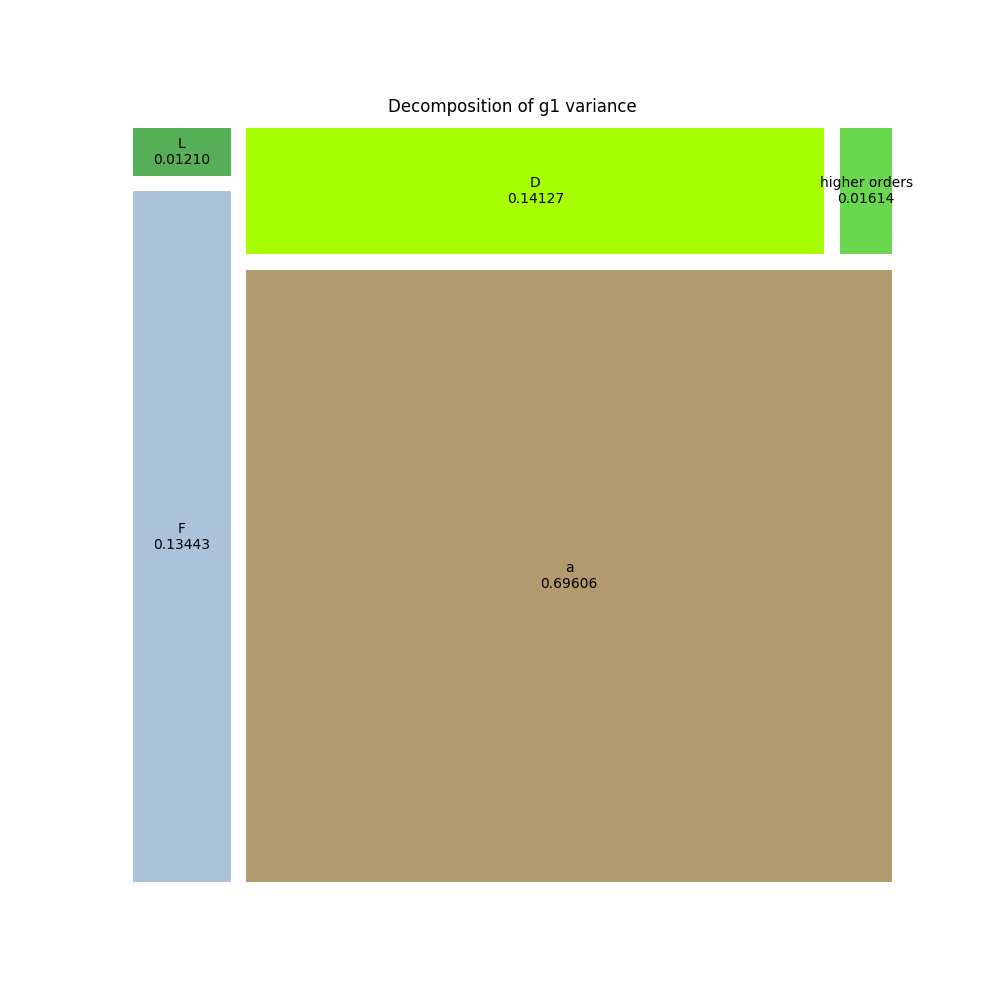
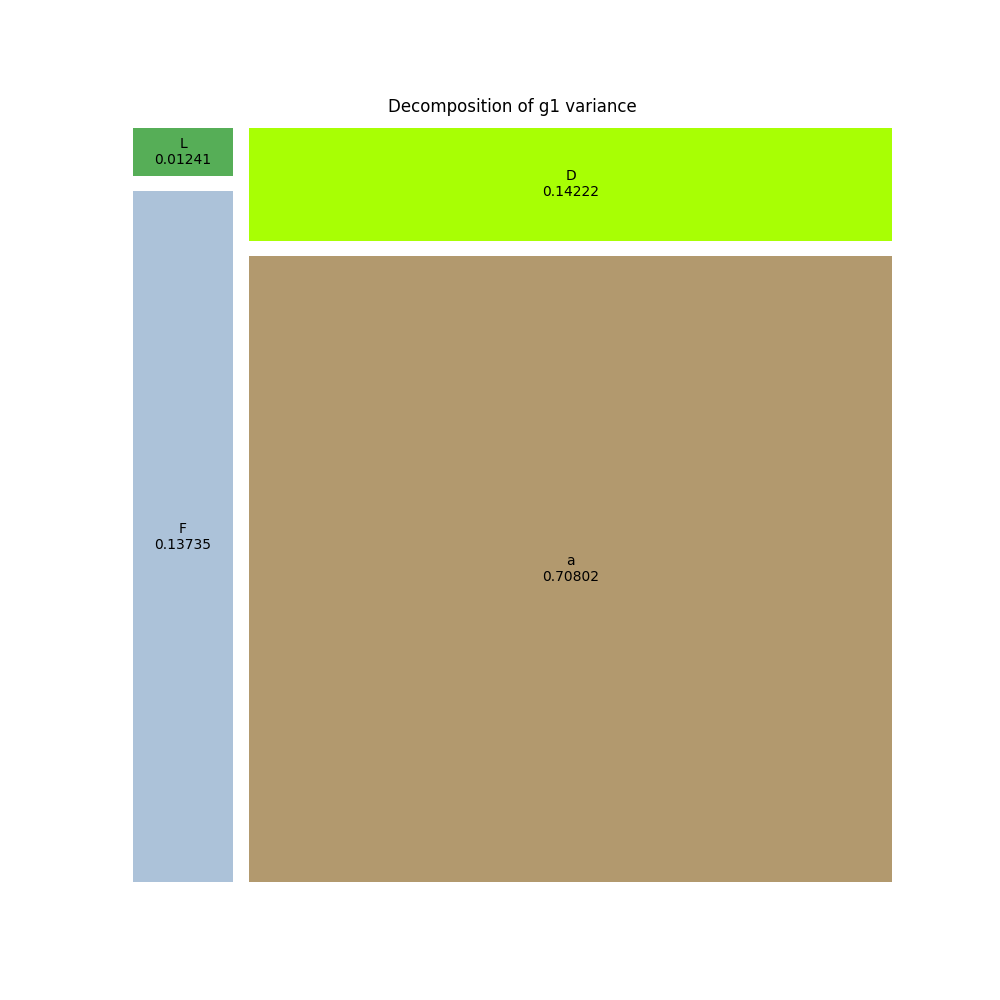
add lgpl license to examples directory

Changed region(s): [[0.155, 0.124, 0.899, 0.279], [0.155, 0.279, 0.248, 0.868], [0.527, 0.558, 0.589, 0.589]]

diff --git a/examples/tube_deflection/tube_deflection_tutorial.py b/examples/tube_deflection/tube_deflection_tutorial.py
@@ -2,6 +2,8 @@ import os
 import chaospy as cp
 import easyvvuq as uq
 from matplotlib import pyplot as plt
+import matplotlib
+matplotlib.use('TkAgg')
 
 from cloudvvuq.easy_executor import EasyExecutor
 
@@ -12,7 +14,7 @@ os.environ['GOOGLE_APPLICATION_CREDENTIALS'] = '../../credentials/credentials.js
 # url = "https://cloudvvuq-ymkbuh6guq-ew.a.run.app"  # Cloud Run - Python
 # url = "https://europe-west1-sano-332607.cloudfunctions.net/TubeDeflection"  # Cloud Functions - Python
 # url = "https://dx6qs64nzckbqqfh73g4m5ssqq0yjmhz.lambda-url.eu-central-1.on.aws/"  # AWS Lambda Image
-url = "https://ueo7uf62rzbu5t2bypcjis7qi40tnqpz.lambda-url.eu-central-1.on.aws/"  # AWS Lambda Layer
+url = "https://jxdvtogestjrjgn5xq2vx762540wncwh.lambda-url.us-east-1.on.aws/"  # AWS Lambda Layer
 
 params = {
     "F": {"type": "float", "default": 1.0},
@@ -29,19 +31,19 @@ vary = {
     "D": cp.Triangle(0.75, 0.8, 0.85),
 }
 
-sampler = uq.sampling.SCSampler(vary=vary, polynomial_order=3)
-
+sampler = uq.sampling.SCSampler(vary=vary, polynomial_order=1)  # fix to 1 for 1:1 results with easyvvuq
+# sampler =uq.sampling.PCESampler(vary=vary, polynomial_order=1)
 executor = EasyExecutor(url)
 
 executor.set_sampler(sampler, params)
 samples = executor.draw_samples()
-outputs = executor.run(samples, max_load=256, cloud_provider="aws")
+outputs = executor.run(samples[:1], max_load=10, cloud_provider="aws")
 
 campaign = executor.create_campaign("tube_deflection", input_columns=['F', 'L', 'a', 'D', 'd', 'E'],
                                     output_columns=['g1', 'g2', 'g3'])
 
 campaign.apply_analysis(
-    uq.analysis.SCAnalysis(
+    uq.analysis.PCEAnalysis(
         sampler=campaign.get_active_sampler(),
         qoi_cols=["g1", 'g2', 'g3']
     )

diff --git a/examples/fusion/fusion_tutorial.py b/examples/fusion/fusion_tutorial.py
@@ -193,6 +193,8 @@ if __name__ == '__main__':
         plt.semilogy(R[i]['results'].describe('rho', 'mean'),
                      np.sqrt(((test_predictions[i] - test_results) ** 2).mean(axis=0)) / test_results.mean(axis=0),
                      label='PCE order %s with %s samples' % (R[i]['order'], R[i]['number_of_samples']))
+    # fixme: convergence surrogate plot is plotted on pce_surrogate plot
+    # plt.figure()
     plt.xlabel('rho [m]')
     plt.ylabel('fractional RMS for predicted Te')
     plt.legend(loc=0)

diff --git a/examples/tube_deflection/Lambda_layer_python_src/beam.py b/examples/tube_deflection/Lambda_layer_python_src/beam.py
@@ -1,5 +1,4 @@
 import sys
-import numpy as np
 import json
 
 if __name__ == '__main__':
@@ -17,7 +16,7 @@ if __name__ == '__main__':
     d = inputs['d']
     E = inputs['E']
     b = L - a
-    I = np.pi * (D ** 4 - d ** 4) / 32.0
+    I = 3.14 * (D ** 4 - d ** 4) / 32.0
     g1 = -F * ((a ** 2 * (L - a) ** 2) / (3.0 * E * L * I))
     g2 = -F * ((b * (L ** 2 - b ** 2)) / (6.0 * E * L * I))
     g3 = F * ((a * (L ** 2 - a ** 2)) / (6.0 * E * L * I))

diff --git a/examples/LICENSE.md b/examples/LICENSE.md
@@ -1,0 +1,165 @@
+                   GNU LESSER GENERAL PUBLIC LICENSE
+                       Version 3, 29 June 2007
+
+ Copyright (C) 2007 Free Software Foundation, Inc. <https://fsf.org/>
+ Everyone is permitted to copy and distribute verbatim copies
+ of this license document, but changing it is not allowed.
+
+
+  This version of the GNU Lesser General Public License incorporates
+the terms and conditions of version 3 of the GNU General Public
+License, supplemented by the additional permissions listed below.
+
+  0. Additional Definitions.
+
+  As used herein, "this License" refers to version 3 of the GNU Lesser
+General Public License, and the "GNU GPL" refers to version 3 of the GNU
+General Public License.
+
+  "The Library" refers to a covered work governed by this License,
+other than an Application or a Combined Work as defined below.
+
+  An "Application" is any work that makes use of an interface provided
+by the Library, but which is not otherwise based on the Library.
+Defining a subclass of a class defined by the Library is deemed a mode
+of using an interface provided by the Library.
+
+  A "Combined Work" is a work produced by combining or linking an
+Application with the Library.  The particular version of the Library
+with which the Combined Work was made is also called the "Linked
+Version".
+
+  The "Minimal Corresponding Source" for a Combined Work means the
+Corresponding Source for the Combined Work, excluding any source code
+for portions of the Combined Work that, considered in isolation, are
+based on the Application, and not on the Linked Version.
+
+  The "Corresponding Application Code" for a Combined Work means the
+object code and/or source code for the Application, including any data
+and utility programs needed for reproducing the Combined Work from the
+Application, but excluding the System Libraries of the Combined Work.
+
+  1. Exception to Section 3 of the GNU GPL.
+
+  You may convey a covered work under sections 3 and 4 of this License
+without being bound by section 3 of the GNU GPL.
+
+  2. Conveying Modified Versions.
+
+  If you modify a copy of the Library, and, in your modifications, a
+facility refers to a function or data to be supplied by an Application
+that uses the facility (other than as an argument passed when the
+facility is invoked), then you may convey a copy of the modified
+version:
+
+   a) under this License, provided that you make a good faith effort to
+   ensure that, in the event an Application does not supply the
+   function or data, the facility still operates, and performs
+   whatever part of its purpose remains meaningful, or
+
+   b) under the GNU GPL, with none of the additional permissions of
+   this License applicable to that copy.
+
+  3. Object Code Incorporating Material from Library Header Files.
+
+  The object code form of an Application may incorporate material from
+a header file that is part of the Library.  You may convey such object
+code under terms of your choice, provided that, if the incorporated
+material is not limited to numerical parameters, data structure
+layouts and accessors, or small macros, inline functions and templates
+(ten or fewer lines in length), you do both of the following:
+
+   a) Give prominent notice with each copy of the object code that the
+   Library is used in it and that the Library and its use are
+   covered by this License.
+
+   b) Accompany the object code with a copy of the GNU GPL and this license
+   document.
+
+  4. Combined Works.
+
+  You may convey a Combined Work under terms of your choice that,
+taken together, effectively do not restrict modification of the
+portions of the Library contained in the Combined Work and reverse
+engineering for debugging such modifications, if you also do each of
+the following:
+
+   a) Give prominent notice with each copy of the Combined Work that
+   the Library is used in it and that the Library and its use are
+   covered by this License.
+
+   b) Accompany the Combined Work with a copy of the GNU GPL and this license
+   document.
+
+   c) For a Combined Work that displays copyright notices during
+   execution, include the copyright notice for the Library among
+   these notices, as well as a reference directing the user to the
+   copies of the GNU GPL and this license document.
+
+   d) Do one of the following:
+
+       0) Convey the Minimal Corresponding Source under the terms of this
+       License, and the Corresponding Application Code in a form
+       suitable for, and under terms that permit, the user to
+       recombine or relink the Application with a modified version of
+       the Linked Version to produce a modified Combined Work, in the
+       manner specified by section 6 of the GNU GPL for conveying
+       Corresponding Source.
+
+       1) Use a suitable shared library mechanism for linking with the
+       Library.  A suitable mechanism is one that (a) uses at run time
+       a copy of the Library already present on the user's computer
+       system, and (b) will operate properly with a modified version
+       of the Library that is interface-compatible with the Linked
+       Version.
+
+   e) Provide Installation Information, but only if you would otherwise
+   be required to provide such information under section 6 of the
+   GNU GPL, and only to the extent that such information is
+   necessary to install and execute a modified version of the
+   Combined Work produced by recombining or relinking the
+   Application with a modified version of the Linked Version. (If
+   you use option 4d0, the Installation Information must accompany
+   the Minimal Corresponding Source and Corresponding Application
+   Code. If you use option 4d1, you must provide the Installation
+   Information in the manner specified by section 6 of the GNU GPL
+   for conveying Corresponding Source.)
+
+  5. Combined Libraries.
+
+  You may place library facilities that are a work based on the
+Library side by side in a single library together with other library
+facilities that are not Applications and are not covered by this
+License, and convey such a combined library under terms of your
+choice, if you do both of the following:
+
+   a) Accompany the combined library with a copy of the same work based
+   on the Library, uncombined with any other library facilities,
+   conveyed under the terms of this License.
+
+   b) Give prominent notice with the combined library that part of it
+   is a work based on the Library, and explaining where to find the
+   accompanying uncombined form of the same work.
+
+  6. Revised Versions of the GNU Lesser General Public License.
+
+  The Free Software Foundation may publish revised and/or new versions
+of the GNU Lesser General Public License from time to time. Such new
+versions will be similar in spirit to the present version, but may
+differ in detail to address new problems or concerns.
+
+  Each version is given a distinguishing version number. If the
+Library as you received it specifies that a certain numbered version
+of the GNU Lesser General Public License "or any later version"
+applies to it, you have the option of following the terms and
+conditions either of that published version or of any later version
+published by the Free Software Foundation. If the Library as you
+received it does not specify a version number of the GNU Lesser
+General Public License, you may choose any version of the GNU Lesser
+General Public License ever published by the Free Software Foundation.
+
+  If the Library as you received it specifies that a proxy can decide
+whether future versions of the GNU Lesser General Public License shall
+apply, that proxy's public statement of acceptance of any version is
+permanent authorization for you to choose that version for the
+Library.

diff --git a/docs/index.md b/docs/index.md
@@ -1,4 +1,6 @@
-# CloudVVUQ
+# CloudVVUQ documentation
+ 
+
 What:  
 **CloudVVUQ** - python library which allows running simulations **in parallel** and in the **cloud** with EasyVVUQ functionality.    
 
@@ -21,18 +23,14 @@ How to use:
 4. Prepare script that starts CloudVVUQ executor / Adapt your existing EasyVVUQ script.  
 5. Deploy the model (see model_deployment section). Test it on smaller scale.  
 6. Launch full-scale simulations.   
- 
-## Documentation
-To run docs:
-```bash
-mkdocs serve
-```
 
 ## Acknowledgments
 
 This work is supported by the European Union’s Horizon 2020 research and innovation programme under grant agreement Sano No 857533 and carried out within the International Research Agendas programme of the Foundation for Polish Science, co-financed by the European Union under the European Regional Development Fund.  
 This work is also partly supported by the European Union’s Horizon 2020 research and innovation programme under grant agreement ISW No 101016503.
-
+ 
 ## License
 
 The library is published under the MIT license. However, the *examples* directory is published under the LGPLv3 license.
+
+
